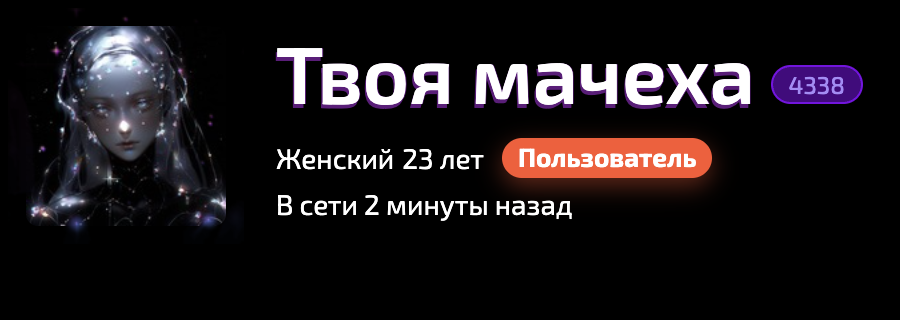
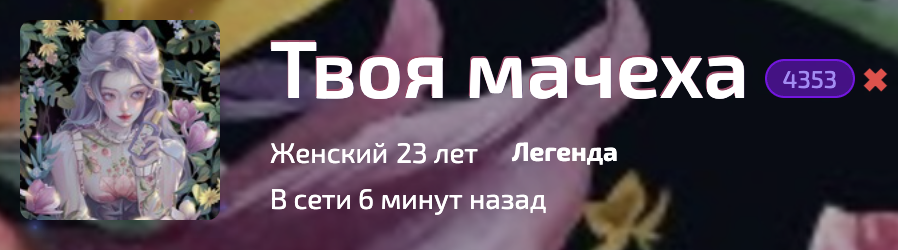
1.1.0

diff --git a/mangabuff-card-stats.user.js b/mangabuff-card-stats.user.js
@@ -1,7 +1,7 @@
 // ==UserScript==
 // @name         MangaBuff Card Statistics
 // @namespace    http://tampermonkey.net/
-// @version      1.0
+// @version      1.1.0
 // @description  Показывает статистику владельцев/желающих, цены на лоты и число обменов пользователей
 // @author       zamoroz
 // @match        https://mangabuff.ru/cards*
@@ -200,9 +200,6 @@
     // CSS стили для отображения статистики
     const styles = `
         .card-stats-overlay {
-            position: absolute;
-            top: 5px;
-            right: 5px;
             background: rgba(0, 0, 0, 0.85);
             color: white;
             padding: 4px 6px;
@@ -210,7 +207,6 @@
             font-size: 9px;
             z-index: 10;
             backdrop-filter: blur(5px);
-            max-width: 110px;
             line-height: 1.3;
         }
         .card-stats-row {
@@ -247,6 +243,9 @@
         }
         .club-boost__inner {
             position: relative;
+        }
+        .lootbox__list {
+            padding-bottom: 40px;
         }
         .lootbox__card {
             position: relative;
@@ -285,6 +284,15 @@
             color: #a78bfa;
             font-weight: 500;
             vertical-align: middle;
+        }
+        .profile__trades-blocked {
+            display: inline-block;
+            margin-left: 4px;
+            color: #ef4444;
+            font-size: 16px;
+            font-weight: bold;
+            vertical-align: middle;
+            cursor: help;
         }
     `;
 
@@ -581,23 +589,26 @@
     }
 
     /**
-     * Парсит HTML страницы обмена и извлекает число обменов
+     * Парсит HTML страницы обмена и извлекает число обменов и статус блокировки
      */
     function parseTradesCount(html) {
         const parser = new DOMParser();
         const doc = parser.parseFromString(html, 'text/html');
         const tradeHeader = doc.querySelector('.trade__header-name span');
 
+        let count = null;
         if (tradeHeader) {
-            const count = tradeHeader.textContent.trim();
-            return count;
+            count = tradeHeader.textContent.trim();
         }
 
-        return null;
+        // Проверяем наличие блока trade__block (пользователь заблокирован)
+        const isBlocked = doc.querySelector('.trade__block') !== null;
+
+        return { count, isBlocked };
     }
 
     /**
-     * Загружает информацию о числе обменов пользователя
+     * Загружает информацию о числе обменов пользователя и статусе блокировки
      */
     async function fetchUserTradesCount(userId) {
         // Проверяем кеш
@@ -606,7 +617,7 @@
             const isNotExpired = cached.timestamp && (Date.now() - cached.timestamp) < TRADES_CACHE_EXPIRY_HOURS * 60 * 60 * 1000;
 
             if (isNotExpired && cached.count !== null) {
-                return cached.count;
+                return { count: cached.count, isBlocked: cached.isBlocked || false };
             }
         }
 
@@ -614,20 +625,21 @@
         return addToQueue(async () => {
             try {
                 const html = await fetchWithRetry(`https://mangabuff.ru/trades/offers/${userId}`);
-                const count = parseTradesCount(html);
+                const result = parseTradesCount(html);
 
                 // Сохраняем в кеш
-                if (count !== null) {
+                if (result.count !== null) {
                     userTradesCache[userId] = {
-                        count: count,
+                        count: result.count,
+                        isBlocked: result.isBlocked,
                         timestamp: Date.now()
                     };
                     saveTradesCache();
                 }
 
-                return count;
+                return result;
             } catch (error) {
-                return null;
+                return { count: null, isBlocked: false };
             }
         });
     }
@@ -643,23 +655,36 @@
         const userId = profileElement.getAttribute('data-user-id');
         if (!userId) return;
 
-        // Ищем элемент с именем пользователя
-        const nameElement = document.querySelector('.profile__name');
+        // Ищем элемент с именем пользователя (десктоп или мобильная версия)
+        const nameElement = document.querySelector('.profile__name') || document.querySelector('.mobile-profile__name');
         if (!nameElement) return;
 
         // Проверяем, не добавлен ли уже счетчик
         if (nameElement.querySelector('.profile__trades-count')) return;
 
-        // Получаем число обменов
-        const count = await fetchUserTradesCount(userId);
+        // Получаем число обменов и статус блокировки
+        const result = await fetchUserTradesCount(userId);
 
         // Если число получено - добавляем его
-        if (count !== null) {
+        if (result && result.count !== null) {
             const tradesSpan = document.createElement('span');
             tradesSpan.className = 'profile__trades-count';
-            tradesSpan.textContent = count;
+            tradesSpan.textContent = result.count;
             tradesSpan.title = 'Количество обменов';
             nameElement.appendChild(tradesSpan);
+
+            // Проверяем блокировку: либо из кеша страницы обмена, либо из кнопки на странице профиля
+            const ignoreButton = document.querySelector('.profile__info--ignore-btn');
+            const isBlockedFromProfile = ignoreButton && ignoreButton.textContent.includes('Удалить из черного списка');
+            const isBlocked = result.isBlocked || isBlockedFromProfile;
+
+            // Добавляем индикатор черного списка, если пользователь заблокирован
+            if (isBlocked) {
+                const blockedSpan = document.createElement('span');
+                blockedSpan.className = 'profile__trades-blocked';
+                blockedSpan.textContent = '✖';
+                nameElement.appendChild(blockedSpan);
+            }
         }
     }
 

diff --git a/mangabuff-card-stats.user.min.js b/mangabuff-card-stats.user.min.js
@@ -1,0 +1,20 @@
+// ==UserScript==
+// @name         MangaBuff Card Statistics
+// @namespace    http://tampermonkey.net/
+// @version      1.1.0
+// @description  Показывает статистику владельцев/желающих, цены на лоты и число обменов пользователей
+// @author       zamoroz
+// @match        https://mangabuff.ru/cards*
+// @match        https://mangabuff.ru/users/*
+// @match        https://mangabuff.ru/market*
+// @match        https://mangabuff.ru/decks/*
+// @match        https://mangabuff.ru/clubs/*/boost
+// @match        https://mangabuff.ru/manga/*
+// @grant        GM_xmlhttpRequest
+// @connect      mangabuff.ru
+// @license MIT
+// @downloadURL https://update.greasyfork.org/scripts/563924/MangaBuff%20Card%20Statistics.user.js
+// @updateURL https://update.greasyfork.org/scripts/563924/MangaBuff%20Card%20Statistics.meta.js
+// ==/UserScript==
+
+!function(){"use strict";const t="mangabuff_card_stats_cache",e=168,n="mangabuff_card_lots_cache",r=1,a="mangabuff_user_trades_cache",o=24;const s=function(){try{const n=localStorage.getItem(t);if(!n)return{};const r=JSON.parse(n),a=Date.now();return Object.keys(r).forEach((t=>{r[t].timestamp&&a-r[t].timestamp>60*e*60*1e3&&delete r[t]})),r}catch(t){return console.error("[MangaBuff Stats] Ошибка загрузки кеша:",t),{}}}(),c=function(){try{const t=localStorage.getItem(n);if(!t)return{};const e=JSON.parse(t),a=Date.now();return Object.keys(e).forEach((t=>{e[t].timestamp&&a-e[t].timestamp>60*r*60*1e3&&delete e[t]})),e}catch(t){return console.error("[MangaBuff Stats] Ошибка загрузки кеша лотов:",t),{}}}(),i=function(){try{const t=localStorage.getItem(a);if(!t)return{};const e=JSON.parse(t),n=Date.now();return Object.keys(e).forEach((t=>{e[t].timestamp&&n-e[t].timestamp>60*o*60*1e3&&delete e[t]})),e}catch(t){return console.error("[MangaBuff Stats] Ошибка загрузки кеша обменов:",t),{}}}(),l=500,d=3,u=2e3;let f=0;const p=[];let m=!1;const g=[];let w=!1,b=null;const h=[{name:"standard",cardSelector:".manga-cards__item[data-card-id]",wrapperSelector:".manga-cards__item-wrapper",idAttribute:"data-card-id",idLocation:"card"},{name:"deck",cardSelector:".deck__item[data-card-id]",wrapperSelector:null,idAttribute:"data-card-id",idLocation:"card"},{name:"lootbox",cardSelector:".lootbox__card[data-id]",wrapperSelector:null,idAttribute:"data-id",idLocation:"card"},{name:"market",cardSelector:".market-list__cards--all .manga-cards__item",wrapperSelector:".manga-cards__item-wrapper",idAttribute:"data-id",idLocation:"wrapper"},{name:"club-boost",cardSelector:".club-boost__inner",wrapperSelector:null,idAttribute:null,idLocation:"link",linkSelector:'a[href*="/cards/"]'}],y=document.createElement("style");function _(t){return new Promise((e=>setTimeout(e,t)))}async function S(){if(0===f)return void(f=Date.now());const t=Date.now()-f;t<l&&await _(l-t),f=Date.now()}function x(t){return new Promise(((e,n)=>{p.push({requestFn:t,resolve:e,reject:n}),async function(){if(m||0===p.length)return;m=!0;for(;p.length>0;){const{requestFn:t,resolve:e,reject:n}=p.shift();try{e(await t())}catch(t){n(t)}}m=!1}()}))}async function v(t,e=0){return await S(),new Promise(((n,r)=>{GM_xmlhttpRequest({method:"GET",url:t,onload:async function(a){if(429===a.status)if(e<d){console.log(`[MangaBuff Stats] 429 ошибка для ${t}, повторная попытка ${e+1}/${d}`),await _(u*(e+1));try{const r=await v(t,e+1);n(r)}catch(t){r(t)}}else console.error(`[MangaBuff Stats] Превышено количество попыток для ${t}`),r(new Error("Too many retries"));else a.status>=200&&a.status<300?n(a.responseText):r(new Error(`HTTP ${a.status}`))},onerror:function(t){r(t)}})}))}function k(t){const e=(new DOMParser).parseFromString(t,"text/html").querySelectorAll(".pagination__button a");let n=1;return e.forEach((t=>{const e=t.getAttribute("href");if(e&&e.includes("page=")){const t=e.match(/page=(\d+)/);if(t){const e=parseInt(t[1]);e>n&&(n=e)}}})),n}async function q(n){if(s[n]){const t=s[n],r=t.timestamp&&Date.now()-t.timestamp<60*e*60*1e3,a=null!==t.owners&&null!==t.wanters;if(r&&a)return E(n,{owners:t.owners,wanters:t.wanters}),{owners:t.owners,wanters:t.wanters}}return x((async()=>{let e,r;await S();try{e=k(await v(`https://mangabuff.ru/cards/${n}/offers/want`))}catch(t){e=null}E(n,{wanters:e}),await S();try{r=k(await v(`https://mangabuff.ru/cards/${n}/users`))}catch(t){r=null}if(E(n,{owners:r}),null!==r&&null!==e){const a={owners:r,wanters:e,timestamp:Date.now()};s[n]=a,function(){try{localStorage.setItem(t,JSON.stringify(s))}catch(t){console.error("[MangaBuff Stats] Ошибка сохранения кеша:",t)}}()}return{owners:r,wanters:e}}))}async function A(t){if(c[t]){const e=c[t];if(e.timestamp&&Date.now()-e.timestamp<60*r*60*1e3&&e.lots&&e.lots.length>0)return e.lots}return x((async()=>{try{const e=function(t){const e=(new DOMParser).parseFromString(t,"text/html").querySelectorAll(".market-show__lots .market-show__item"),n=[],r=new Set;for(const t of e){const e=t.getAttribute("href"),a=e?e.split("/market/")[1]:null;if(!a)continue;const o=t.querySelector(".market-show__user-cards-rank"),s=o?o.textContent.trim():null;if(s&&!r.has(s)&&(r.add(s),n.push({lotId:a,price:s}),n.length>=5))break}return n}(await v(`https://mangabuff.ru/market/card/${t}`));return e.length>0&&(c[t]={lots:e,timestamp:Date.now()},function(){try{localStorage.setItem(n,JSON.stringify(c))}catch(t){console.error("[MangaBuff Stats] Ошибка сохранения кеша лотов:",t)}}()),e}catch(e){return console.error(`[MangaBuff Stats] Ошибка загрузки лотов для карты ${t}:`,e),[]}}))}async function L(t){if(i[t]){const e=i[t];if(e.timestamp&&Date.now()-e.timestamp<60*o*60*1e3&&null!==e.count)return{count:e.count,isBlocked:e.isBlocked||!1}}return x((async()=>{try{const e=function(t){const e=(new DOMParser).parseFromString(t,"text/html"),n=e.querySelector(".trade__header-name span");let r=null;return n&&(r=n.textContent.trim()),{count:r,isBlocked:null!==e.querySelector(".trade__block")}}(await v(`https://mangabuff.ru/trades/offers/${t}`));return null!==e.count&&(i[t]={count:e.count,isBlocked:e.isBlocked,timestamp:Date.now()},function(){try{localStorage.setItem(a,JSON.stringify(i))}catch(t){console.error("[MangaBuff Stats] Ошибка сохранения кеша обменов:",t)}}()),e}catch(t){return{count:null,isBlocked:!1}}}))}async function M(){const t=document.querySelector(".profile[data-user-id]");if(!t)return;const e=t.getAttribute("data-user-id");if(!e)return;const n=document.querySelector(".profile__name")||document.querySelector(".mobile-profile__name");if(!n)return;if(n.querySelector(".profile__trades-count"))return;const r=await L(e);if(r&&null!==r.count){const t=document.createElement("span");t.className="profile__trades-count",t.textContent=r.count,t.title="Количество обменов",n.appendChild(t);const e=document.querySelector(".profile__info--ignore-btn"),a=e&&e.textContent.includes("Удалить из черного списка");if(r.isBlocked||a){const t=document.createElement("span");t.className="profile__trades-blocked",t.textContent="✖",n.appendChild(t)}}}function B(t){const e=document.createElement("div");return e.className="card-stats-overlay",e.innerHTML=`\n            <div class="card-stats-row">\n                <span class="card-stats-label">Владельцев:</span>\n                <span class="card-stats-value owners card-stats-loading" data-card-id="${t}" data-type="owners">...</span>\n            </div>\n            <div class="card-stats-row">\n                <span class="card-stats-label">Желают:</span>\n                <span class="card-stats-value wanters card-stats-loading" data-card-id="${t}" data-type="wanters">...</span>\n            </div>\n        `,e}function E(t,e){const n=document.querySelectorAll(`[data-card-id="${t}"][data-type="owners"]`),r=document.querySelectorAll(`[data-card-id="${t}"][data-type="wanters"]`);void 0!==e.owners&&n.forEach((t=>{t.textContent=null!==e.owners?e.owners:"Ошибка",t.classList.remove("card-stats-loading")})),void 0!==e.wanters&&r.forEach((t=>{t.textContent=null!==e.wanters?e.wanters:"Ошибка",t.classList.remove("card-stats-loading")}))}async function D(t,e){if(e.querySelector(".card-lots-overlay"))return;const n=await A(t);if(n&&n.length>0){const t=function(t){if(!t||0===t.length)return null;const e=document.createElement("div");e.className="card-lots-overlay";const n=t.map((t=>t.price)).join(", ");return e.innerHTML=`\n            <div class="card-lots-label">Цены:</div>\n            <div class="card-lots-prices">${n}</div>\n        `,e}(n);t&&e.appendChild(t)}}function $(t,e){g.push({cardId:t,wrapper:e}),async function(){if(w||0===g.length)return;w=!0;for(;g.length>0;){const{cardId:t,wrapper:e}=g.shift();document.contains(e)&&!e.querySelector(".card-lots-overlay")&&await D(t,e)}w=!1}()}function C(){if(document.querySelector(".profile[data-user-id]"))return;const t=Date.now();console.log("[MangaBuff Stats] Начало processCards"),h.forEach((t=>{const e=document.querySelectorAll(t.cardSelector);if(e.length>0&&console.log(`[MangaBuff Stats] Найдено ${e.length} карточек типа ${t.name}`),"market"!==t.name)e.forEach((e=>{const n=function(t,e){if(e.wrapperSelector){const n=t.closest(e.wrapperSelector);if(n)return n.style.position="relative",n}return t.style.position="relative",t}(e,t);if(!n)return;if(n.querySelector(".card-stats-overlay"))return;const r=function(t,e){if("card"===e.idLocation)return t.getAttribute(e.idAttribute);if("wrapper"===e.idLocation){const n=t.closest(e.wrapperSelector);return n?n.getAttribute(e.idAttribute):null}if("link"===e.idLocation){const n=t.querySelector(e.linkSelector);if(n){const t=n.getAttribute("href").match(/\/cards\/(\d+)/);return t?t[1]:null}}return null}(e,t);if(!r)return;const a=B(r);n.appendChild(a),q(r)}));else{document.querySelector(".market-list__cards--all")&&(b||(b=new IntersectionObserver((t=>{t.forEach((t=>{if(t.isIntersecting){const e=t.target,n=e.getAttribute("data-id");n&&($(n,e),b.unobserve(e))}}))}),{rootMargin:"50px"})),e.forEach((e=>{const n=e.closest(t.wrapperSelector);n&&b&&b.observe(n)})))}})),console.log(`[MangaBuff Stats] processCards завершен за ${Date.now()-t}мс`)}y.textContent="\n        .card-stats-overlay {\n            background: rgba(0, 0, 0, 0.85);\n            color: white;\n            padding: 4px 6px;\n            border-radius: 3px;\n            font-size: 9px;\n            z-index: 10;\n            backdrop-filter: blur(5px);\n            line-height: 1.3;\n        }\n        .card-stats-row {\n            display: flex;\n            justify-content: space-between;\n            align-items: center;\n            margin: 1px 0;\n            white-space: nowrap;\n        }\n        .card-stats-label {\n            color: #aaa;\n            margin-right: 4px;\n            font-size: 8px;\n        }\n        .card-stats-value {\n            font-weight: bold;\n            font-size: 9px;\n        }\n        .card-stats-value.owners {\n            color: #4ade80;\n        }\n        .card-stats-value.wanters {\n            color: #fb923c;\n        }\n        .card-stats-loading {\n            color: #888;\n            font-style: italic;\n        }\n        .manga-cards__item-wrapper {\n            position: relative;\n        }\n        .deck__item {\n            position: relative;\n        }\n        .club-boost__inner {\n            position: relative;\n        }\n        .lootbox__list {\n            padding-bottom: 40px;\n        }\n        .lootbox__card {\n            position: relative;\n        }\n        .card-lots-overlay {\n            position: absolute;\n            top: 8px;\n            right: 5px;\n            background: rgba(0, 0, 0, 0.85);\n            color: white;\n            padding: 4px 6px;\n            border-radius: 3px;\n            font-size: 8px;\n            z-index: 10;\n            backdrop-filter: blur(5px);\n            max-width: 110px;\n            line-height: 1.4;\n        }\n        .card-lots-label {\n            color: #aaa;\n            font-weight: 500;\n            margin-bottom: 2px;\n        }\n        .card-lots-prices {\n            color: #fbbf24;\n            font-weight: bold;\n        }\n        .profile__trades-count {\n            display: inline-block;\n            margin-left: 8px;\n            padding: 2px 8px;\n            background: rgba(139, 0, 255, 0.5);\n            border: 1px solid rgba(139, 0, 255, 0.8);\n            border-radius: 12px;\n            font-size: 12px;\n            color: #a78bfa;\n            font-weight: 500;\n            vertical-align: middle;\n        }\n        .profile__trades-blocked {\n            display: inline-block;\n            margin-left: 4px;\n            color: #ef4444;\n            font-size: 16px;\n            font-weight: bold;\n            vertical-align: middle;\n            cursor: help;\n        }\n    ",document.head.appendChild(y);const N=new MutationObserver((t=>{let e=!1,n=!1;for(const r of t){if(r.addedNodes.length>0){const t=Array.from(r.addedNodes).some((t=>1===t.nodeType&&(t.classList?.contains("tabs__page")||t.querySelector?.(".manga-cards__item")||t.classList?.contains("lootbox__card")||t.querySelector?.(".lootbox__card")||t.classList?.contains("lootbox__list")))),n=Array.from(r.addedNodes).some((t=>1===t.nodeType&&(t.classList?.contains("market-list__cards--all")||t.querySelector?.(".market-list__cards--all"))));(t||n)&&(e=!0)}if(r.removedNodes.length>0){Array.from(r.removedNodes).some((t=>1===t.nodeType&&(t.classList?.contains("lootbox__card")||t.querySelector?.(".lootbox__card"))))&&(e=!0)}if("attributes"===r.type&&"data-id"===r.attributeName){const t=r.target;if(t.classList.contains("lootbox__card")){n=!0;const e=t.querySelector(".card-stats-overlay");e&&e.remove();const r=t.getAttribute("data-id");if(r){t.style.position="relative";const e=B(r);t.appendChild(e),q(r)}}}}e?setTimeout(C,100):n||C()}));"loading"===document.readyState?document.addEventListener("DOMContentLoaded",(()=>{C(),M(),N.observe(document.body,{childList:!0,subtree:!0,attributes:!0,attributeFilter:["data-id"]})})):(C(),M(),N.observe(document.body,{childList:!0,subtree:!0,attributes:!0,attributeFilter:["data-id"]}))}();